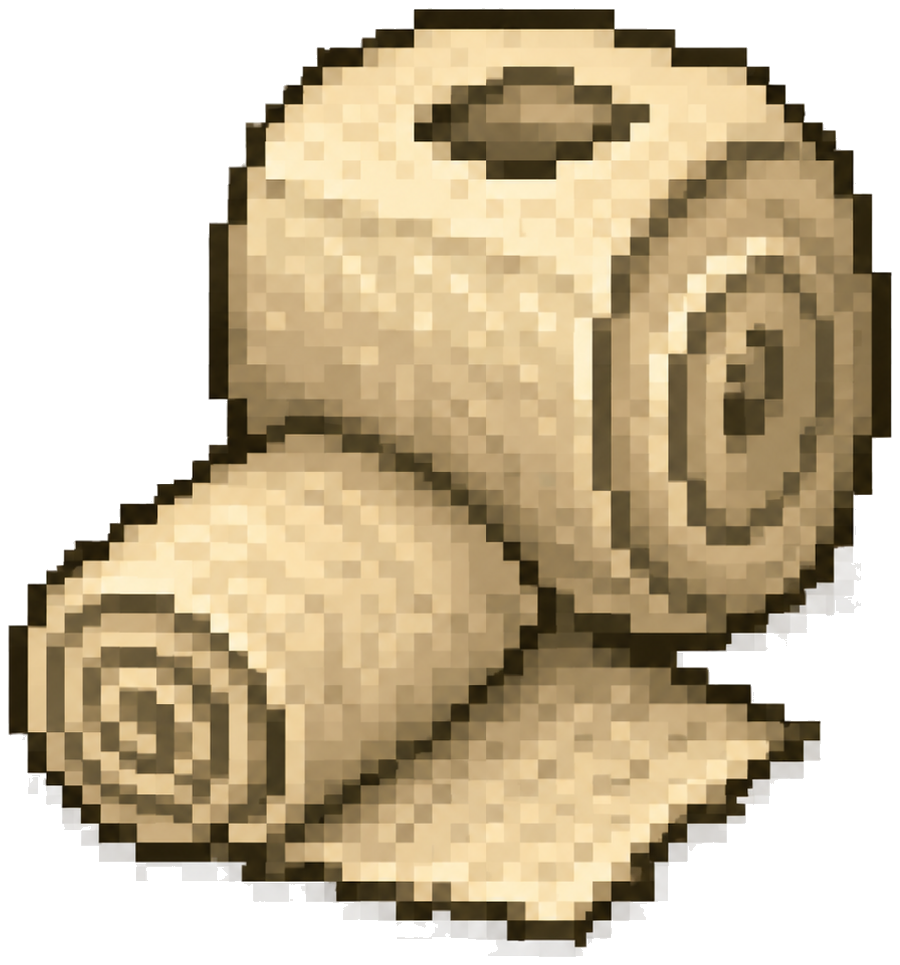
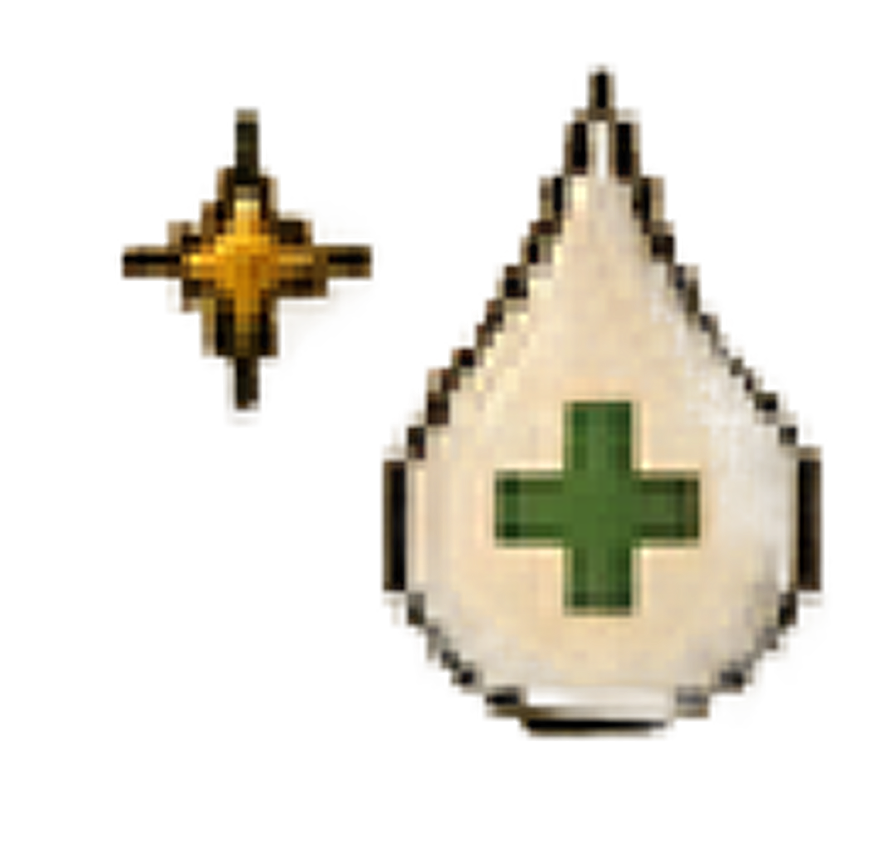
kurang modul 6 dan 8

diff --git a/frontend/src/pages/Module07EmergencyKitPage.jsx b/frontend/src/pages/Module07EmergencyKitPage.jsx
@@ -2,7 +2,7 @@ import { useState } from "react";
 import obatItem from "../assets/items/obat-cutout.png";
 import antiseptikItem from "../assets/items/antibiotik-cutout.png";
 import perbanItem from "../assets/items/perban-cutout.png";
-import kasaItem from "../assets/items/kasa-cutout.png";
+import kasaItem from "../assets/items/lakbanluka-cutout.png";
 import plesterItem from "../assets/items/plester-cutout.png";
 import guntingItem from "../assets/items/gunting-cutout.png";
 import pinsetItem from "../assets/items/pinset-cutout.png";
@@ -30,11 +30,11 @@ const craftRecipes = [
     description: "Luka lecet atau gores kecil yang kotor perlu dibersihkan dengan antiseptik agar tidak infeksi.",
   },
   {
-    id: "kasa-plester",
+    id: "kasa-pleser",
     items: ["kasa", "plester"],
     title: "Perlindungan Luka",
     formula: "Kasa + Plester",
-    itemA: { label: "Kasa", icon: kasaItem },
+    itemA: { label: "Perban", icon: kasaItem },
     itemB: { label: "Plester", icon: plesterItem },
     result: actMed2,
     resultLabel: "Perlindungan Luka",
@@ -65,13 +65,13 @@ const craftRecipes = [
 ];
 
 const medkitMaterials = [
-  { id: "antiseptik", label: "Antiseptik", icon: antiseptikItem, description: "Membersihkan luka agar risiko infeksi berkurang." },
+  { id: "antiseptik", label: "Obat Merah", icon: antiseptikItem, description: "Membersihkan luka agar risiko infeksi berkurang." },
   { id: "gunting", label: "Gunting", icon: guntingItem, description: "Memotong perban, kasa, atau bahan medis sesuai kebutuhan." },
   { id: "plester", label: "Plester", icon: plesterItem, description: "Menahan kasa atau menutup luka kecil agar terlindungi." },
   { id: "sarungtangan", label: "Sarung Tangan", icon: sarungTanganItem, description: "Melindungi tangan saat menolong dan merawat luka." },
-  { id: "kasa", label: "Kasa", icon: kasaItem, description: "Menutup luka agar tetap bersih dan menyerap cairan luka." },
+  { id: "kasa", label: "Perban", icon: kasaItem, description: "Menutup luka agar tetap bersih dan menyerap cairan luka." },
   { id: "pinset", label: "Pinset", icon: pinsetItem, description: "Mengambil serpihan kecil tanpa menyentuh luka langsung." },
-  { id: "perban", label: "Perban", icon: perbanItem, description: "Membalut luka dan membantu menahan perdarahan ringan." },
+  { id: "perban", label: "Antiseptik", icon: perbanItem, description: "Menahan perdarahan ringan." },
   { id: "masker", label: "Masker", icon: maskerItem, description: "Menutup mulut dan hidung agar pertolongan lebih higienis." },
 ];
 